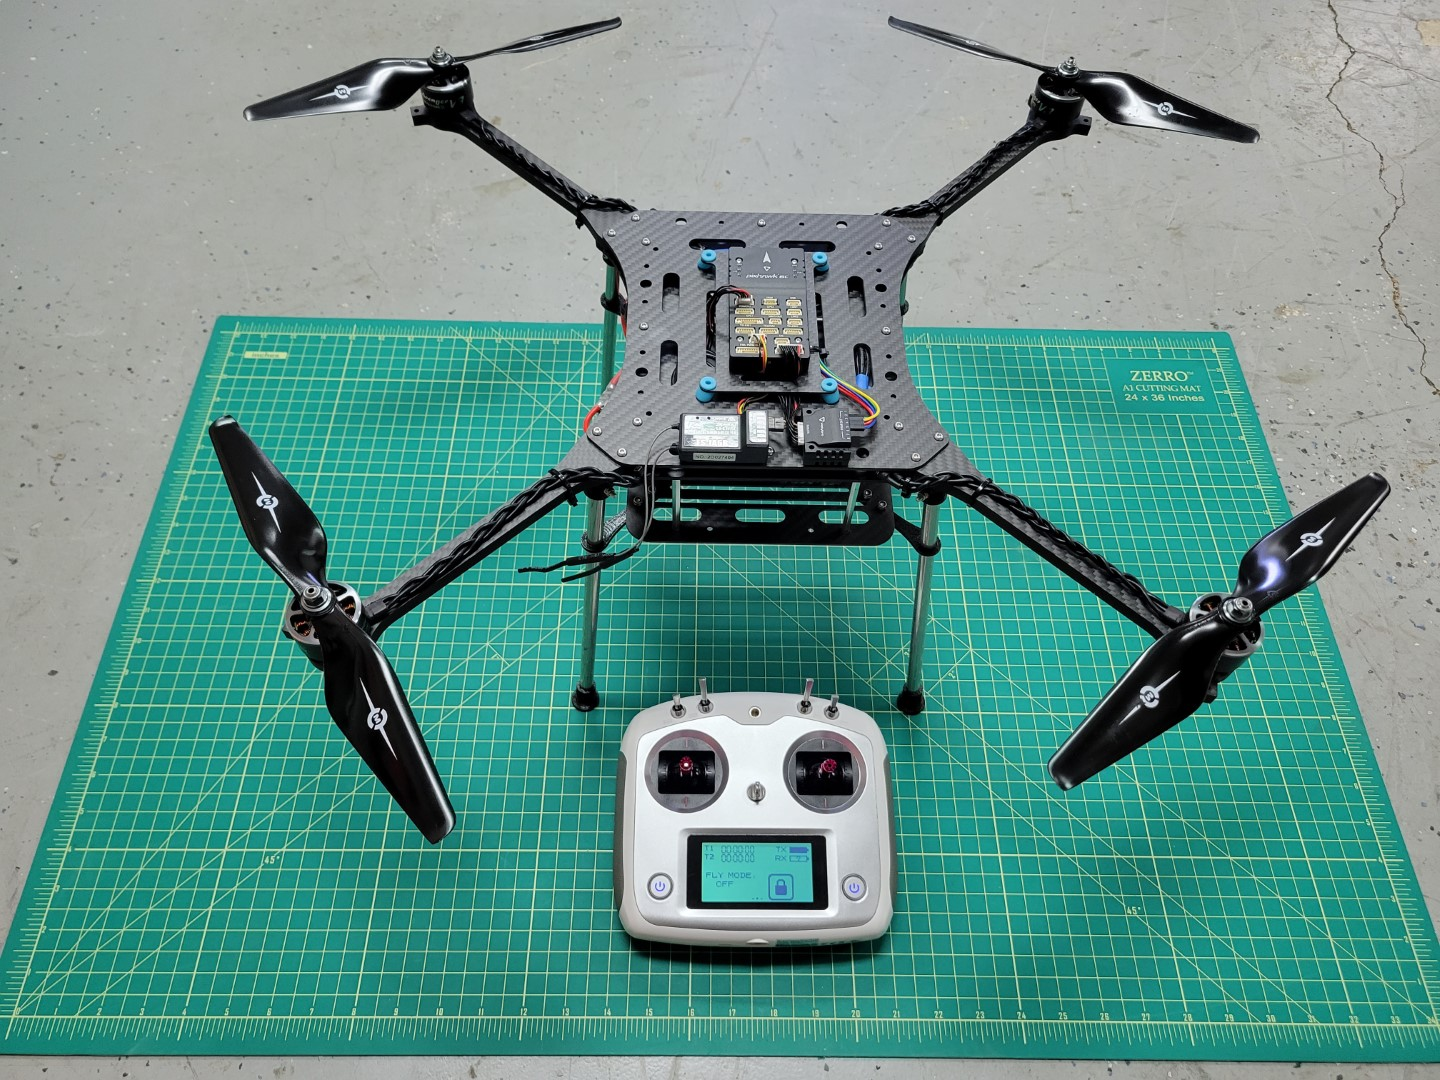
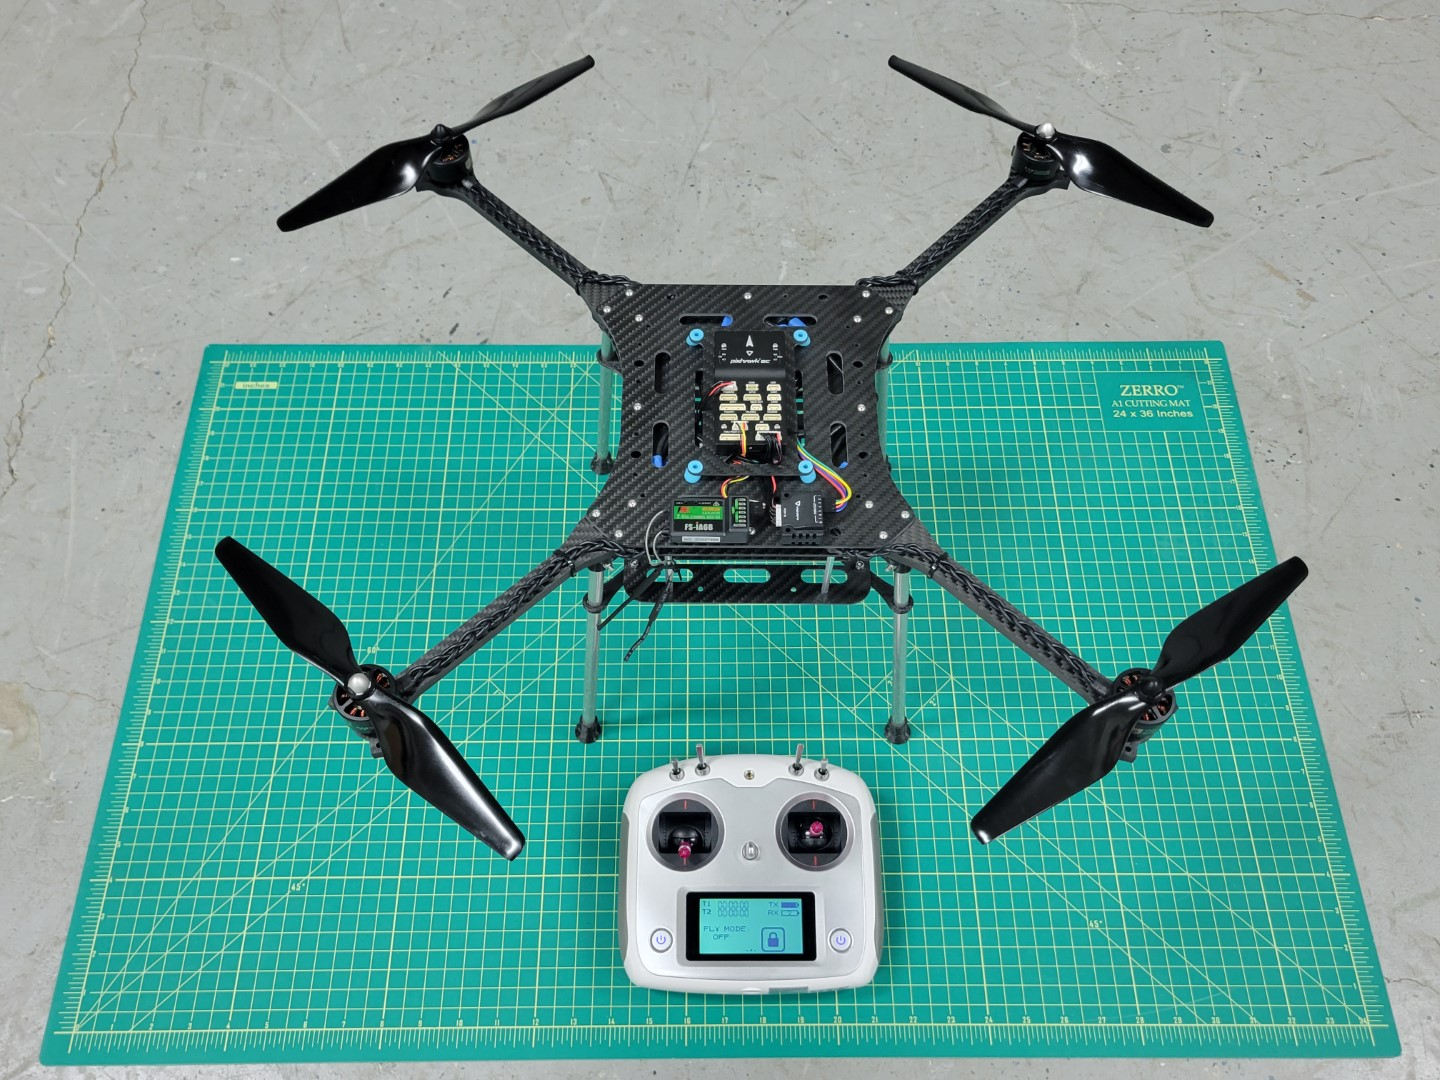
Documenting new motor install

diff --git a/content/en/basic-drone-assembly/arms-and-motors/_index.md b/content/en/basic-drone-assembly/arms-and-motors/_index.md
@@ -4,9 +4,38 @@ weight: 3
 description: "In this section we will walk through the process of mounting the drone motors to the arms of the frame"
 ---
 
+## Overview
+
+Motor position and rotation are incredibly important for any drone to fly properly. In your kit you will notice two motor boxes labeled **CW** (clockwise) and two **CCW** (counter clockwise). This represents the direction of rotation for each motor. Let's revisit motor position and rotation in the image below:
+
+![PX4 motor position and rotation](px4_motor_order.png)
+
+**Motor positions 1 and 2 require CCW rotating motors and motor positions 3 and 4 require CW rotating motors.**
+
+You may be wondering how to determine the rotation of each motor. There are two ways to determine this. The first, and less intuitive in our opinion, is to look at the motor can. The photo below shows the motor size (**2812**) and kV rating (**900**) printed in two different formats. The kV rating for the CCW rotating motor is printed before the motor size. The kV rating for the CW rotating motor is printed after the motor size.
+
+![CW (black cap) and CCW (silver cap) motors](cw_and_ccw_motors.jpg)
+
+With that out of the way let's cover a much more intutive (in our opinion) way to determine motor rotation. It requires using the propellers included in your kit. The **silver capped propeller** is a CCW rotating propeller and is threaded in a way that it will only screw onto the CCW motors. The **black capped propeller** is a CW rotating propeller. It is threaded in a way that it will only screw onto the CW rotating motors.
+
+The photo below shows an example of installing a CW rotating propeller. Hold the propeller in place and rotate the motor in a clockwise direction. If the thread pattern is correct the propeller will screw onto the motor shaft and lock into place.
+
+![CW propeller mounting](cw_prop_mounting.jpg)
+
+Repeat this process for each of the four motors and then use tape to label them, just like you did with your ESC leads. You will be glad you did later!
+
+![Label each of your four motors](motor_labeling.jpg)
+
+You should have the following:
+
+- Motor 1: CCW
+- Motor 2: CCW
+- Motor 3: CW
+- Motor 4: CW
+
 ## Attaching Motors to Arms
 
-Inside each motor box there is a small ziploc bag of 4 x 8mm screws and other components. You will only be using the screws from this bag. In your AVR kit you will also find a ziploc bag of M3 washers.
+Inside each motor box there is a small ziploc bag of 4 x 8mm screws. In your AVR kit you will also find a ziploc bag of M3 washers.
 
 {{% alert title="Warning" color="warning" %}}
 Please be sure to use the screws provided in the small ziploc bag inside the motor box. **Using longer screws from the kit can end up damaging the motor windings and ultimately prevent the motor from operating.**
@@ -22,11 +51,13 @@ A 2mm hex driver is necessary to secure each of the 8mm screws into the motor.
 Don't forget to use one M3 washer with each screw. This will help reduce stress on the carbon fiber arm.
 {{% /alert %}}
 
-![2mm hex driver for motor mounting](motor_arm_assembly_2.jpg)
+Place a small drop of blue Loctite on each screw as shown in the photo below.
 
-Make note of the blue loctite already applied to each of the screws in the photo below. Loctite is useful in helping secure your screws and prevents them from coming loose.
+![Blue Loctite on motor screw](motor_arm_assembly_2.jpg)
 
-![Blue loctite, screws, and washers](motor_arm_assembly_3.jpg)
+Loctite is useful in helping secure your screws and prevents them from coming loose.
+
+![Motor mounted and secured](motor_arm_assembly_3.jpg)
 
 Repeat this process for all four of the motors.
 
@@ -44,9 +75,13 @@ Locate the M3 22mm screws and lock nuts in your AVR kit. These will be necessary
 
 Each arm will require three 22mm screws and lock nuts. You will insert each of the screws through the top plate, arm, bottom plate, and landing gear mount. The lock nut will be secured from the bottom as shown in the photo below. A 5.5mm box driver is necessary for tightening the nut. Be sure to tighten each nut securely.
 
+{{% alert title="Tip" color="tip" %}}
+Save yourself some trouble and make sure that the motor arms are mounted in the right position. Make sure that the labeled ESC leads match with the motor labels. Refer back to the PX4 motor image above if necessary.
+{{% /alert %}}
+
 ![Securing lock nuts with 5.5mm driver](motor_arm_midplate_2.jpg)
 
-Repeat this process for each motor arm.
+Repeat the installation process for each motor arm.
 
 ![All four motor arms secured](motor_arm_midplate_3.jpg)
 

diff --git a/content/en/flight-controller-setup-and-calibration/motor-test/_index.md b/content/en/flight-controller-setup-and-calibration/motor-test/_index.md
@@ -6,7 +6,7 @@ weight: 8
 One physical check that must be done to ensure your AVR drone hovers properly
 is to verify that the motor positions and rotations are correct. We previously covered ESC wiring which should ensure that the FC output is going to the right motor.
 
-We discussed motor rotation in the section on propeller adapters and learned that the rotation for each motor is important. You may recall the
+We discussed motor rotation when installing the frame arms and learned that the rotation for each motor is important. You may recall the
 image below and we will refer to it one more time before we run the motor test.
 
 ![Motor position and rotation diagram](px4_motor_order.png)
